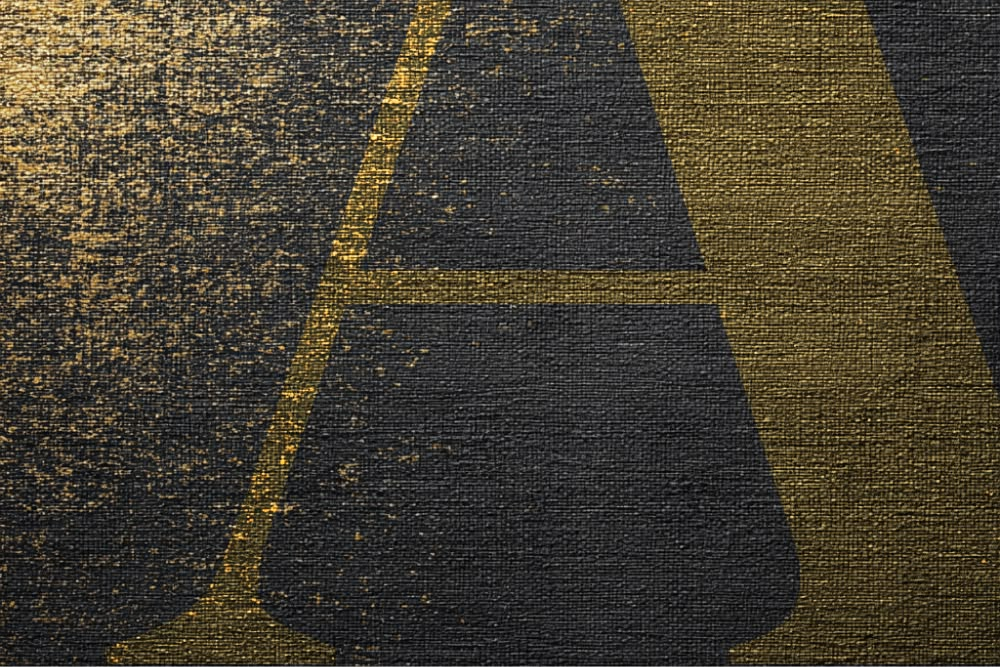
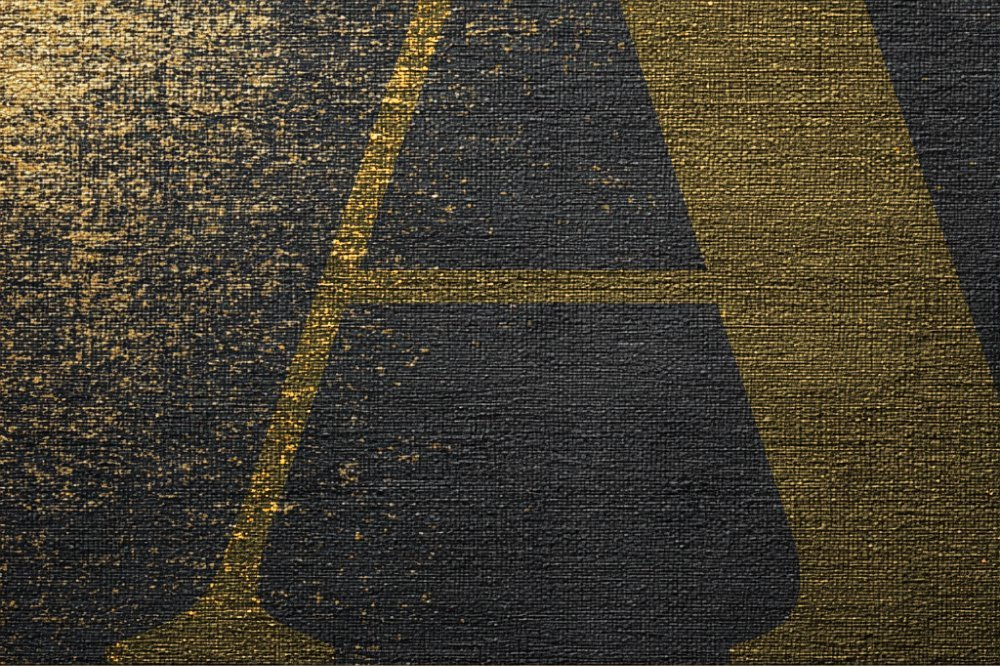
Exit fee calculation tweaks

diff --git a/Arké mobile/Views/Settings/Exit/ExitView_iOS.swift b/Arké mobile/Views/Settings/Exit/ExitView_iOS.swift
@@ -7,6 +7,36 @@
 
 // MARK: - Outstanding Issues & TODOs
 
+// NOTE: Exit Cost Estimation (FINAL CORRECTION 2026-04-24)
+// The calculateExitCost() function uses conservative assumptions based on Bark's implementation:
+// 
+// Critical corrections from detailed Bark developer feedback:
+// 1. NO deduplication assumed (0%) - safest without full VTXO chain txid analysis
+// 2. Exit tx weight: 1012 WU (RADIX=4: 1 input + 4 P2TR outputs + 1 P2A anchor)
+// 3. Tree depth: 3 levels (conservative budget for typical round sizes)
+// 4. Claim tx: 214 + N×304 WU (script-path spend, not keyspend)
+// 
+// Round tree structure (mod.rs, RADIX=4):
+// - Round size 1-4 VTXOs → depth 1 → 1 exit tx per VTXO
+// - Round size 5-16 VTXOs → depth 2 → 2 exit txs per VTXO
+// - Round size 17-64 VTXOs → depth 3 → 3 exit txs per VTXO
+// - Round size 65-256 VTXOs → depth 4 → 4 exit txs per VTXO
+// 
+// Exit transaction weight (RADIX=4):
+// - Formula: (64 + 43×R)×4 + 68 where R=4
+// - Result: 1012 WU per exit transaction at any tree level
+// 
+// Claim transaction weight (script-path spend):
+// - Witness per input: 140 WU (sig + 39-byte DelayedSignClause + 33-byte control block)
+// - Input: 164 WU (non-witness) + 140 WU (witness) = 304 WU
+// - Overhead: 214 WU (base tx + marker/flag + outputs)
+// - Formula: 214 + N×304 WU
+// 
+// Example (10 VTXOs, depth 3, 8 sat/vB):
+// - Exit phase: (1012×10×3)/4 × 8 × 2 = 121,440 sats
+// - Claim phase: (214+10×304)/4 × 8 = 6,508 sats
+// - Total with 15% margin: ~147,150 sats
+
 // TODO: Fee Rate Estimation (MEDIUM PRIORITY)
 // Both progressExits() and drainExits() currently pass nil for fee rates.
 // Should implement proper fee estimation or provide user selection UI.
@@ -258,27 +288,52 @@ struct ExitView_iOS: View {
         feeRateSatPerVb: UInt64,
         onchainBalance: UInt64
     ) -> ExitCostEstimate {
-        // Base transaction size estimates (in weight units)
-        // These are conservative estimates based on typical exit transaction sizes
-        let baseExitTxWeight: UInt64 = 2000  // ~500 vbytes per exit tx
-        let cpfpTxWeight: UInt64 = 600       // ~150 vbytes for CPFP child
+        // CONSERVATIVE ASSUMPTION: No deduplication
+        // Bark deduplicates parent exit transactions by txid (transaction_manager.rs)
+        // Dedup rate depends entirely on round tree structure:
+        // - VTXOs from different rounds: 0% deduplication (every txid is unique)
+        // - VTXOs from same round: 30-60%+ deduplication (shared upper-tree txs)
+        // Without access to full VTXO chain txids, safest assumption is NO deduplication
         
-        // Calculate per-VTXO cost
-        let perVtxoPackageWeight = baseExitTxWeight + cpfpTxWeight
-        let totalWeight = perVtxoPackageWeight * UInt64(max(vtxoCount, 1))
+        // Exit transaction weight (RADIX=4 from mod.rs)
+        // Each exit tx at any tree level has:
+        // - 1 taproot keyspend input
+        // - 4 P2TR outputs (3 siblings + chain-continuation)
+        // - 1 P2A anchor output (13 vbytes = 52 WU)
+        // Weight = (64 + 43×R)×4 + 68, where R=4 for round tree
+        // Result: (64 + 43×4)×4 + 68 = 1012 WU per exit tx
+        let exitTxWeight: UInt64 = 1012
         
-        // Convert weight to vbytes and calculate base fee
-        let totalVbytes = totalWeight / 4
-        let baseFee = totalVbytes * feeRateSatPerVb
+        // Tree depth budget (conservative for typical rounds)
+        // Round size → Depth: 1-4 VTXOs=1, 5-16=2, 17-64=3, 65-256=4
+        // Use depth=3 as conservative budget for typical round sizes
+        // (Boarding VTXOs have depth=1, but we can't distinguish without metadata)
+        let treeDepth: UInt64 = 3
         
-        // Apply CPFP multiplier (Bark uses 2x - see util.rs:43 in Bark repo)
-        // This accounts for the need to bump parent transaction fees
-        let cpfpMultiplier: Double = 2.0
-        let totalFee = UInt64(Double(baseFee) * cpfpMultiplier)
+        // Total weight of all parent transactions in exit chains
+        // = exitTxWeight × vtxoCount × treeDepth
+        let totalParentWeight = exitTxWeight * UInt64(vtxoCount) * treeDepth
         
-        // Add safety margin (20% for fee rate fluctuations and estimation errors)
-        let safetyMargin = UInt64(Double(totalFee) * 0.20)
-        let totalCost = totalFee + safetyMargin
+        // Bark's CPFP rough estimator formula (util.rs:30,43):
+        // fee = feeRate * unique_parent_weight * 2
+        // The 2x multiplier approximates CPFP child weight ≈ parent weight (conservative)
+        // Actual CPFP targets: fee_needed = (parent_weight + child_weight) * fee_rate
+        // Real multiplier is typically 1.3-1.8x, so 2x is deliberately generous
+        let totalParentVbytes = totalParentWeight / 4
+        let exitPhaseFee = totalParentVbytes * feeRateSatPerVb * 2
+        
+        // Add claim transaction fee (separate phase, computed from mod.rs:645)
+        // Claim tx uses script-path spend through DelayedSignClause (not keyspend)
+        // Witness per input: 140 WU (sig + 39-byte script + 33-byte control block)
+        // Input weight: 164 WU (non-witness) + 140 WU (witness) = 304 WU per input
+        // Overhead: 214 WU (tx base + marker/flag + outputs)
+        // Formula: 214 + 304×N WU
+        let claimTxWeight: UInt64 = UInt64(214 + vtxoCount * 304)
+        let claimFee = (claimTxWeight / 4) * feeRateSatPerVb
+        
+        // Total cost with safety margin (15% for fee rate fluctuations)
+        let baseCost = exitPhaseFee + claimFee
+        let totalCost = UInt64(Double(baseCost) * 1.15)
         
         let canAfford = onchainBalance >= totalCost
         